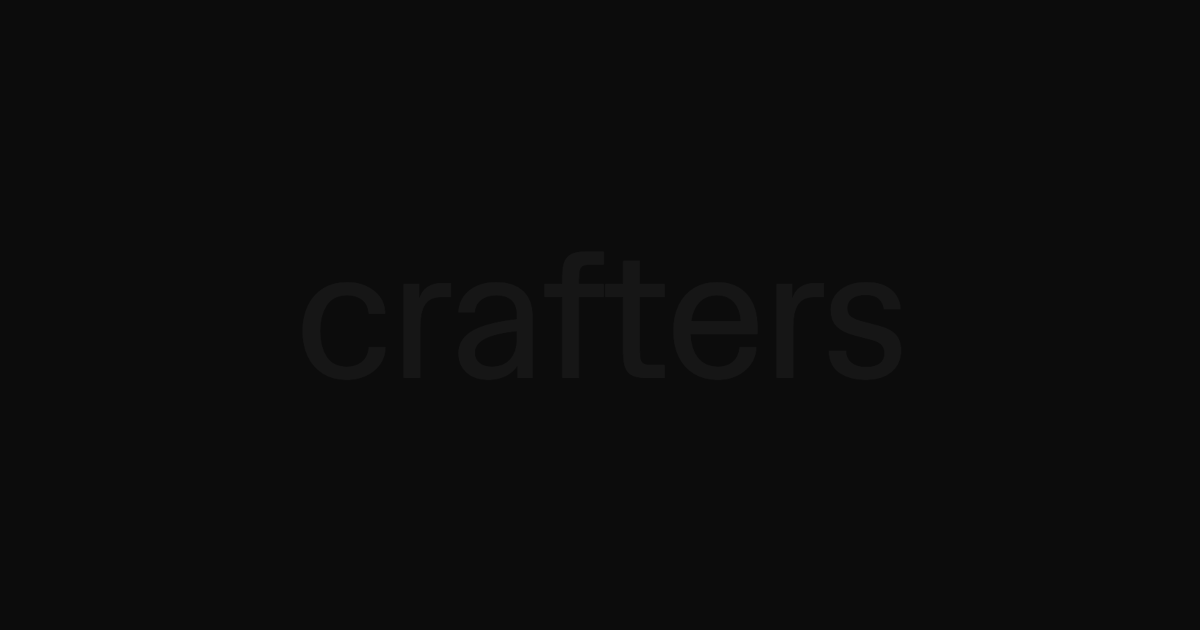
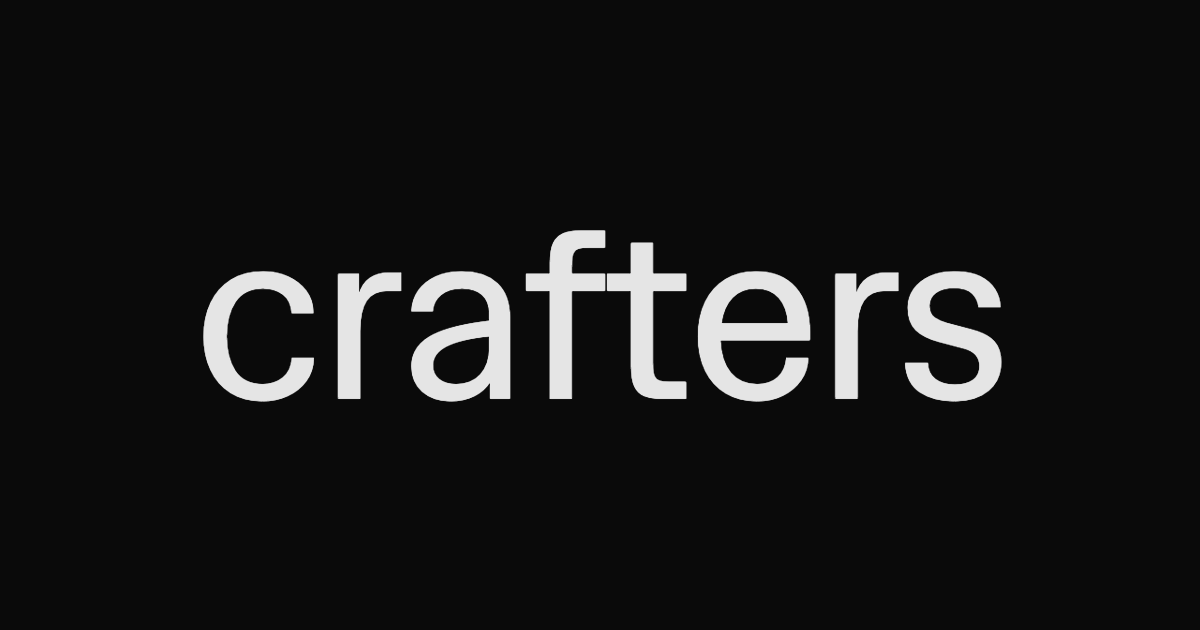
feat: improve OG image readability and contrast
- Increase font size from 180px to 240px for better visibility
- Change text color from #161616 to #E5E5E5 for higher contrast
- Soften background slightly from #0C0C0C to #0A0A0A
- Regenerate OG image with improved readability for social sharing

Changed region(s): [[0.1542, 0.3619, 0.8325, 0.6635]]

diff --git a/scripts/generate-og.ts b/scripts/generate-og.ts
@@ -33,7 +33,7 @@ async function generateOG() {
           body {
             width: ${OG_WIDTH}px;
             height: ${OG_HEIGHT}px;
-            background: #0C0C0C;
+            background: #0A0A0A;
             display: flex;
             align-items: center;
             justify-content: center;
@@ -41,9 +41,9 @@ async function generateOG() {
           }
           .watermark {
             font-family: 'Hedvig Letters Sans', sans-serif;
-            font-size: 180px;
+            font-size: 240px;
             font-weight: 400;
-            color: #161616;
+            color: #E5E5E5;
             text-transform: lowercase;
             letter-spacing: -0.02em;
             user-select: none;
